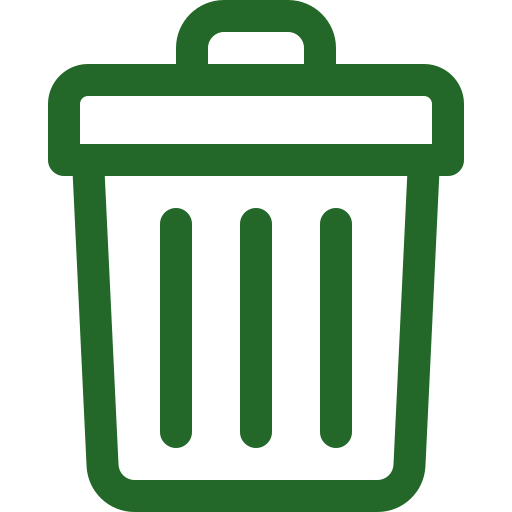
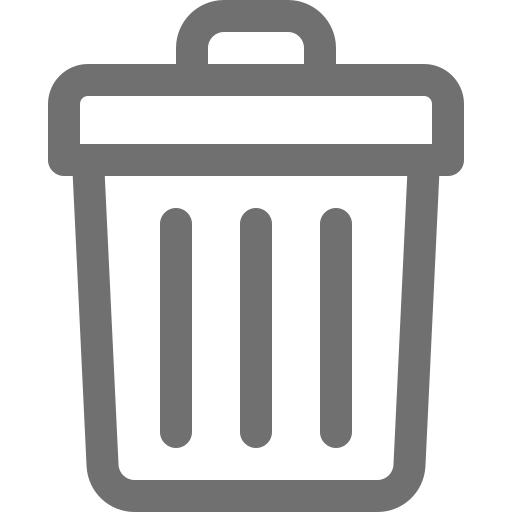
Card Ready

diff --git a/Receitas Favoritas/FinaReceitaHome.html b/Receitas Favoritas/FinaReceitaHome.html
@@ -183,15 +183,19 @@
                         </div>
                         <div class="recipecardframe">
                             <div class="recipelabel">
-                                <p>Lasanha à bolonhesa.</p>
-                                <img src="img/trash.png" alt="trash">
+                                <a href="#">
+                                    <p>Lasanha à bolonhesa.</p>
+                                </a>
+                                <a href=""><img src="img/trash.png" alt="trash"></a>
                             </div>
-                            <div>
+                            <div class="description">
                                 <p>A Lasanha à Bolonhesa é composta por uma deliciosa massa, recheada com molho à bolonhesa, carne moída e presunto, coberta com molho branco e mussarela.</p>
                             </div>
                             <div class="readmore">
-                                <p>Leia mais</p>
-                                <img src="img/right-arrow.png" alt="arrow">
+                                <a href="#">
+                                    <p>Leia mais</p>
+                                </a>
+                                <a href="#"><img src="img/right-arrow.png" alt="arrow"></a>
                             </div>
                         </div>
 

diff --git a/Receitas Favoritas/css/estilohome.css b/Receitas Favoritas/css/estilohome.css
@@ -307,10 +307,22 @@ Adicione a estilização do conteúdo da página abaixo*/
     width: 20px;
 }
 
+.recipelabel a{
+    color: #236828;
+}
+
 .readmore{
     display: flex;
     align-items: center;
     height: 10px;
+}
+
+.readmore a{
+    color: #707070;
+}
+
+.description{
+    color: #707070;
 }
 
 .readmore img{
